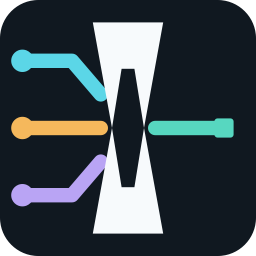
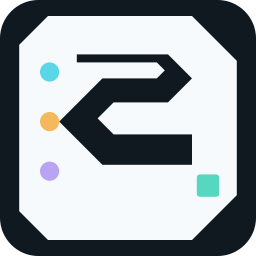
brand: introduce distinctive cut-sieve identity

diff --git a/scripts/validate-brand.py b/scripts/validate-brand.py
@@ -20,9 +20,9 @@ REQUIRED = (
     "source/telosieve-stacked.svg",
     "source/telosieve-monochrome.svg",
     "source/telosieve-reversed.svg",
-    "concepts/direction-a-convergence-gate.svg",
-    "concepts/direction-b-sieve-monogram.svg",
-    "concepts/direction-c-evidence-loom.svg",
+    "concepts/direction-a-cut-sieve.svg",
+    "concepts/direction-b-questioned-t.svg",
+    "concepts/direction-c-counterfactual-knot.svg",
     "tokens/brand.tokens.json",
     "tokens/brand.css",
     "templates/release-card.svg",
@@ -87,7 +87,7 @@ def main() -> int:
         errors.append(result.stdout.strip() or result.stderr.strip() or "brand asset build check failed")
 
     tokens = json.loads((BRAND / "tokens/brand.tokens.json").read_text(encoding="utf-8"))
-    if tokens.get("schema_version") != "telosieve.brand-tokens/v1" or tokens.get("brand_version") != "2.0.0":
+    if tokens.get("schema_version") != "telosieve.brand-tokens/v1" or tokens.get("brand_version") != "3.0.0":
         errors.append("brand token version mismatch")
     expected_states = {"verified", "refused", "warning", "unknown"}
     if not expected_states.issubset(tokens.get("colour", {})):
@@ -95,9 +95,9 @@ def main() -> int:
 
     identity = (ROOT / "docs/BRAND_IDENTITY.md").read_text(encoding="utf-8")
     for phrase in (
-        "Brand version: `2.0.0`",
+        "Brand version: `3.0.0`",
         "Product maturity is not brand identity",
-        "| A: convergence gate",
+        "| A: cut-sieve glyph",
         "Colour never carries state alone",
         "Remaining human gates",
         "not evidence of safety",
@@ -132,7 +132,7 @@ def main() -> int:
     if errors:
         return 1
     print(result.stdout.strip())
-    print(f"brand-validation: passed version=2.0.0 permanent_identity=true maturity_refusals={len(mutation_cases)}")
+    print(f"brand-validation: passed version=3.0.0 permanent_identity=true maturity_refusals={len(mutation_cases)}")
     return 0
 
 

diff --git a/scripts/build-private-bundle.py b/scripts/build-private-bundle.py
@@ -20,9 +20,9 @@ BRAND_FILES = [
     "assets/brand/source/telosieve-stacked.svg",
     "assets/brand/source/telosieve-monochrome.svg",
     "assets/brand/source/telosieve-reversed.svg",
-    "assets/brand/concepts/direction-a-convergence-gate.svg",
-    "assets/brand/concepts/direction-b-sieve-monogram.svg",
-    "assets/brand/concepts/direction-c-evidence-loom.svg",
+    "assets/brand/concepts/direction-a-cut-sieve.svg",
+    "assets/brand/concepts/direction-b-questioned-t.svg",
+    "assets/brand/concepts/direction-c-counterfactual-knot.svg",
     "assets/brand/tokens/brand.tokens.json",
     "assets/brand/tokens/brand.css",
     "assets/brand/templates/release-card.svg",

diff --git a/scripts/build-brand-assets.py b/scripts/build-brand-assets.py
@@ -131,7 +131,7 @@ def manifest_for(export_root: Path) -> dict:
             "allowed_use": "Telosieve product, documentation, release, and social communication",
             "export_command": f"python3 scripts/build-brand-assets.py --rebuild ({EXPORTS[relative][0]} -> {relative})",
         })
-    return {"schema_version": "telosieve.brand-assets/v1", "brand_version": "2.0.0", "entries": entries}
+    return {"schema_version": "telosieve.brand-assets/v1", "brand_version": "3.0.0", "entries": entries}
 
 
 def build(directory: Path) -> dict:

diff --git a/docs/BRAND_IDENTITY.md b/docs/BRAND_IDENTITY.md
@@ -1,12 +1,12 @@
 # Telosieve Brand Identity
 
-Brand version: `2.0.0`
+Brand version: `3.0.0`
 
 Status: approved as Telosieve's enduring product identity on 2026-08-08 and corrected on the same date to remove release-maturity coupling. This identity communicates the product's purpose and mechanism; it is not evidence of safety, independent validation, legal name clearance, production readiness, or current release authorization.
 
 ## Product maturity is not brand identity
 
-Telosieve has one product identity across research, evaluation, release-candidate, and any future production-grade stages. The name, convergence-gate mark, brand version, purpose, principles, personality, tagline, colour, typography, and canonical product templates are maturity-neutral. They are designed for the intended durable product, not as temporary evaluation packaging.
+Telosieve has one product identity across research, evaluation, release-candidate, and any future production-grade stages. The name, cut-sieve mark, brand version, purpose, principles, personality, tagline, colour, typography, and canonical product templates are maturity-neutral. They are designed for the intended durable product, not as temporary evaluation packaging.
 
 Current maturity is a separate, replaceable messaging overlay. The overlay states release channel, read-only or actuation scope, support posture, evidence maturity, production authorization, and independent-validation status. Changing those facts must not require redrawing the mark, renaming the product, changing the brand version, or replacing the core tagline. The current overlay is `assets/brand/templates/evaluation-overlay.svg`; it is not part of any canonical logo.
 
@@ -62,15 +62,15 @@ Three genuinely different directions are retained under `assets/brand/concepts/`
 
 | Direction | Mechanism | Strength | Risk | Result |
 |---|---|---|---|---|
-| A: convergence gate | three independent paths bend into a faceted sieve and one bounded result exits | bold silhouette, direct mechanism, strong monochrome and small-size behaviour | the waist can suggest an hourglass without the evidence paths | selected |
-| B: sieve monogram | an angular S carries three coloured inputs toward one result | ownable letterform and strong wordmark pairing | reads as a route or cable and obscures provenance after entry | not selected |
-| C: evidence loom | three ribbons weave through a two-bar lattice | dynamic and clearly communicates independent evidence | visually busy, weaker at favicon size, and can imply continuous data processing | not selected |
+| A: cut-sieve glyph | a chamfered field contains an angular S inspection channel, three circular apertures, and one square result | compact, ownable silhouette; strong monochrome reversal; reads as both sieve and questioned instruction | can suggest a processor tile, which is acceptable for the infrastructure category | selected |
+| B: questioned T monogram | three evidence blades interrupt a monumental T and resolve at a square base | immediate initial and strong editorial presence | too static and corporate; the evidence semantics become decoration | not selected |
+| C: counterfactual knot | three angular ribbons turn around an open centre without collapsing provenance | energetic, distinctive, and visibly multi-source | resembles routing and is too complex below 24 pixels | not selected |
 
-The internal review used a common light field and compared all three directions at equal size before their names and rationale were considered. Scoring dimensions were mechanism fidelity, silhouette, claim safety, category fit, distinctiveness, monochrome behaviour, and recognition at 16, 24, and 32 pixels. Direction A scored highest because the central gate remains identifiable without colour, the three sources remain distinct until the decision boundary, and the output is bounded without suggesting a shield, lock, tick, robot, or automatic remediation. This was one project-controlled review, not an external comprehension study or trademark opinion.
+The brand `3.0.0` review used a common light field and compared three newly drawn directions at equal size before their names and rationale were considered. Scoring dimensions were mechanism fidelity, silhouette, claim safety, category fit, distinctiveness, monochrome behaviour, and recognition at 16, 24, and 32 pixels. Direction A scored highest because the chamfered silhouette and angular S channel remain recognisable without colour, the circular apertures stay distinct from the square result, and the mark avoids a shield, lock, tick, robot, eye, or automatic-remediation metaphor. This was one project-controlled review, not an external comprehension study or trademark opinion.
 
 ## Logo system
 
-The selected mark shows three distinguishable evidence paths bending into a faceted convergence gate and one bounded result leaving it. The gate's asymmetric evidence paths prevent the central form being read in isolation as an hourglass; its negative slit expresses filtering rather than closure. The three paths remain visually distinct to avoid implying that corroboration erases provenance. The central shape is a sieve gate, not a shield. The square result is deliberately not a tick.
+The selected mark is a cut-sieve glyph rather than a protocol diagram. Its chamfered outer field gives the product a stable app, repository, print, and favicon silhouette. An angular negative-space S doubles as a sieve channel and a questioned instruction moving in two directions. Three circular apertures encode separate evidence without drawing literal network paths; the differently shaped square is the bounded result. The field is not a shield, the channel is not an automatic route, and the square is deliberately not a tick.
 
 Canonical files:
 
@@ -83,7 +83,7 @@ Canonical files:
 - `telosieve-monochrome.svg`: one-colour print and terminal-adjacent use;
 - `telosieve-reversed.svg`: dark-field symbol.
 
-Clear space is at least one input-node diameter around every mark. Minimum sizes are 16 pixels for the small symbol, 32 pixels for the primary symbol, 180 pixels for the horizontal lockup, and 220 pixels for the stacked lockup. Use the small symbol below 32 pixels, the dark-field favicon on browser/OS surfaces, and the reversed dark-field avatar where the surrounding theme is unknown. Do not rotate, skew, add shadows, soften or round the gate facets, recolour individual paths outside the token system, fill the negative slit, convert the result square to a tick, place copy inside the clear space, or use the colour mark where monochrome or forced-colour output is required.
+Clear space is at least one aperture diameter around every mark. Minimum sizes are 16 pixels for the small symbol, 32 pixels for the primary symbol, 180 pixels for the horizontal lockup, and 220 pixels for the stacked lockup. Use the small symbol below 32 pixels, the dark-field favicon on browser/OS surfaces, and the reversed dark-field avatar where the surrounding theme is unknown. Do not rotate, skew, add shadows, round away the chamfers, recolour individual apertures outside the token system, fill the S channel, convert the result square to a tick, place copy inside the clear space, or use the colour mark where monochrome or forced-colour output is required.
 
 ## Colour and state
 
@@ -130,11 +130,11 @@ The builder renders every PNG twice and requires byte identity, exact dimensions
 
 The repository owner is product and brand owner. Engineering owns deterministic assets and integration consistency; security owns prohibited protection claims; research owns evidence and novelty wording; accessibility owns contrast and non-colour semantics; legal clearance remains external. A future contributor may fill more than one role, but every role must be explicitly reviewed at a release gate.
 
-Brand sources, tokens, and manifest use their own `2.0.0` version. Protocol and release-maturity changes do not silently change the brand. Material mark, palette, typography, promise, or category changes require a reviewed milestone, migration note, regenerated exports, new manifest, and archive of released assets. Security or cultural-symbol findings may trigger immediate withdrawal, followed by documented replacement rather than silent file substitution.
+Brand sources, tokens, and manifest use their own `3.0.0` version. Protocol and release-maturity changes do not silently change the brand. Material mark, palette, typography, promise, or category changes require a reviewed milestone, migration note, regenerated exports, new manifest, and archive of released assets. Security or cultural-symbol findings may trigger immediate withdrawal, followed by documented replacement rather than silent file substitution.
 
 ### Migration from the maturity-coupled label
 
-The revoked `v0.2.0-rc.2` record preserves the earlier `1.0.0-evaluation` label and first aperture geometry as historical evidence. Brand `1.0.0` separated maturity from identity. Brand `2.0.0` now replaces the diagram-like aperture with the more distinctive faceted convergence gate while retaining the name, tagline, palette, typography, semantic states, and asset paths. Consumers must refresh every logo and raster export rather than mixing generations; use `evaluation-overlay.svg` only when current maturity disclosure is required. Do not infer a production promotion from either identity correction.
+The revoked `v0.2.0-rc.2` record preserves the earlier `1.0.0-evaluation` label and first aperture geometry. Brand `1.0.0` separated maturity from identity. Brand `2.0.0`, retained in `assets/brand/archive/2.0.0/`, replaced that diagram with the faceted convergence gate used by the signed `v0.2.0-rc.3` candidate. Brand `3.0.0` responds to the owner's distinctiveness review by replacing the remaining process-diagram aesthetic with the compact cut-sieve glyph while retaining the name, tagline, palette, typography, semantic states, and durable asset paths. Consumers must refresh every logo and raster export rather than mixing generations; use `evaluation-overlay.svg` only when current maturity disclosure is required. This post-candidate identity change belongs to a future candidate and does not alter or silently relabel the signed rc.3 bytes. Do not infer a production promotion from any identity correction.
 
 ## Remaining human gates
 

diff --git a/docs/IMPLEMENTATION_PLAN.md b/docs/IMPLEMENTATION_PLAN.md
@@ -1085,3 +1085,26 @@ Evidence before freeze: [RC3_EVALUATION_RELEASE_DECISION](RC3_EVALUATION_RELEASE
 and `scripts/validate-release-presentation.py`.
 Exact artifact and tag evidence is retained in [RC3_FREEZE_RECORD](RC3_FREEZE_RECORD.md).
 The record commit is deliberately newer than the immutable tagged candidate bytes.
+
+## Post-M64 - distinctive cut-sieve brand migration
+
+- [x] Treat the owner's rejection of the faceted convergence gate as a material
+  distinctiveness finding rather than a cosmetic adjustment.
+- [x] Develop and compare three new directions against the mature product,
+  including colour-independent silhouette, 16/24/32-pixel recognition, claim
+  safety, category fit, and unintended symbolism.
+- [x] Select the cut-sieve glyph and implement canonical symbol, small, favicon,
+  horizontal, stacked, monochrome, reversed, avatar, social-card, and release-card
+  variants without changing the wordmark, palette, tagline, or maturity boundary.
+- [x] Advance the governed identity to brand `3.0.0`, archive the released `2.0.0`
+  manifest, regenerate deterministic exports, and update package validation,
+  README, productisation, release, and brand governance surfaces.
+- [x] Keep signed `v0.2.0-rc.3` bytes and their archived brand identity immutable;
+  assign brand `3.0.0` to current source and a future candidate.
+- [ ] Obtain formal trademark/cultural review, multi-participant comprehension,
+  print proofing, and cross-platform optical comparison before claiming those
+  external brand assurances.
+
+Evidence: [BRAND_IDENTITY](BRAND_IDENTITY.md), `assets/brand/archive/2.0.0/`,
+`assets/brand/source/`, `assets/brand/concepts/`,
+`scripts/build-brand-assets.py`, and `scripts/validate-brand.py`.

diff --git a/docs/EVALUATION_PRODUCTISATION_DECISION.md b/docs/EVALUATION_PRODUCTISATION_DECISION.md
@@ -4,7 +4,7 @@ Date: 2026-08-08
 
 ## Decision
 
-The owner approves Telosieve as a product with enduring brand identity `2.0.0`. The identity is independent of research, evaluation, release-candidate, production, and support maturity. This supersedes the 2026-07-29 productisation prohibition for the product and public-source presentation lanes. It does not supersede production, actuation, independent-assessment, legal-clearance, hosted-CI, package-publication, or safety-claim gates.
+The owner approves Telosieve as a product with an enduring identity independent of research, evaluation, release-candidate, production, and support maturity. Brand `2.0.0` established that permanent identity; the governed post-candidate distinctiveness review advances current source to brand `3.0.0` without changing the product platform or relabelling signed rc.3 bytes. This supersedes the 2026-07-29 productisation prohibition for the product and public-source presentation lanes. It does not supersede production, actuation, independent-assessment, legal-clearance, hosted-CI, package-publication, or safety-claim gates.
 
 The permanent product layer comprises the Telosieve name, convergence-gate mark, `Question the instruction before enforcing it` tagline, corroborated desired-state control category, brand platform, visual system, and canonical assets. Current read-only evaluation status is a separately versioned release overlay and must not be encoded into the canonical mark, brand version, core tagline, or design tokens.
 

diff --git a/README.md b/README.md
@@ -21,7 +21,7 @@ The candidate contribution is a provenance-separated protocol that can suspect t
 | Observation | Authenticated multi-domain quorum required in every supported mode | declared domains do not prove organisational independence |
 | Integrations | Kubernetes, OpenTofu, Redis, PostgreSQL, and HTTP/JSON | read-only qualification with documented environment limits |
 | Actuation | Transactional single-host reference actuator | reference semantics only, no production-system authority |
-| Brand | Enduring product identity `2.0.0` | legal and external comprehension review remain separate gates |
+| Brand | Current source identity `3.0.0` | signed rc.3 carries archived `2.0.0`; legal and external comprehension review remain separate gates |
 | CI | `./scripts/ci-local.sh` | sole authoritative gate while the repository is private |
 
 Public source, production promotion, hosted CI, package publication, autonomous actuation, and stronger safety claims each remain separately governed. See [Release Strategy](docs/RELEASE.md) and [Public Opening Decision](docs/PUBLIC_OPENING_DECISION.md).

diff --git a/docs/RELEASE.md b/docs/RELEASE.md
@@ -329,7 +329,9 @@ and the `v0.2.0-rc.3` successor freeze are complete. It does not authorize hoste
 CI, package or container publication, telemetry, production deployment, or stronger claims. Hosted CI
 still requires every approval and review listed in the private-repository policy.
 
-The 2026-08-08 productisation decision approves enduring brand identity `2.0.0`.
+The 2026-08-08 productisation decision approved enduring brand identity `2.0.0`;
+the governed post-candidate distinctiveness review advances current source to
+brand `3.0.0` while retaining the released `2.0.0` manifest.
 Evaluation and release-candidate status are separate maturity overlays rather
 than variants of the canonical product identity. The
 asset manifest, canonical SVGs, design tokens, channel templates, deterministic

diff --git a/CHANGELOG.md b/CHANGELOG.md
@@ -4,6 +4,11 @@ All notable Telosieve changes are recorded here. Telosieve follows Semantic Vers
 
 ## Unreleased
 
+- Replace the process-diagram-like convergence mark with brand `3.0.0`: a
+  compact cut-sieve glyph with an ownable S channel, evidence apertures, and
+  bounded-result square across canonical, monochrome, reversed, and small assets.
+- Archive the released brand `2.0.0` manifest and regenerate deterministic
+  favicon, avatar, and social exports for the governed identity migration.
 - Correct brand identity `1.0.0` to be permanent across maturity stages and
   separate evaluation status into a release overlay.
 - Replace the diagram-like aperture with the distinctive brand `2.0.0` faceted

diff --git a/docs/PRIVATE_BUNDLE.md b/docs/PRIVATE_BUNDLE.md
@@ -5,7 +5,7 @@ absolute locally validated Telosieve binary and a fixed allowlist of evaluation
 configuration, RBAC, lifecycle, diagnostics, policy, and operator documents.
 The allowlist includes the Apache-2.0 licence, security policy, change history,
 public-opening boundary, and current diligence record.
-It also carries enduring brand identity `2.0.0`, canonical SVG sources,
+It also carries the current enduring brand identity `3.0.0`, canonical SVG sources,
 tokens, templates, raster exports, provenance manifest, and validators so the
 candidate presentation remains bound to the exact handoff.
 Evaluation maturity is carried by a separate overlay and release copy rather
